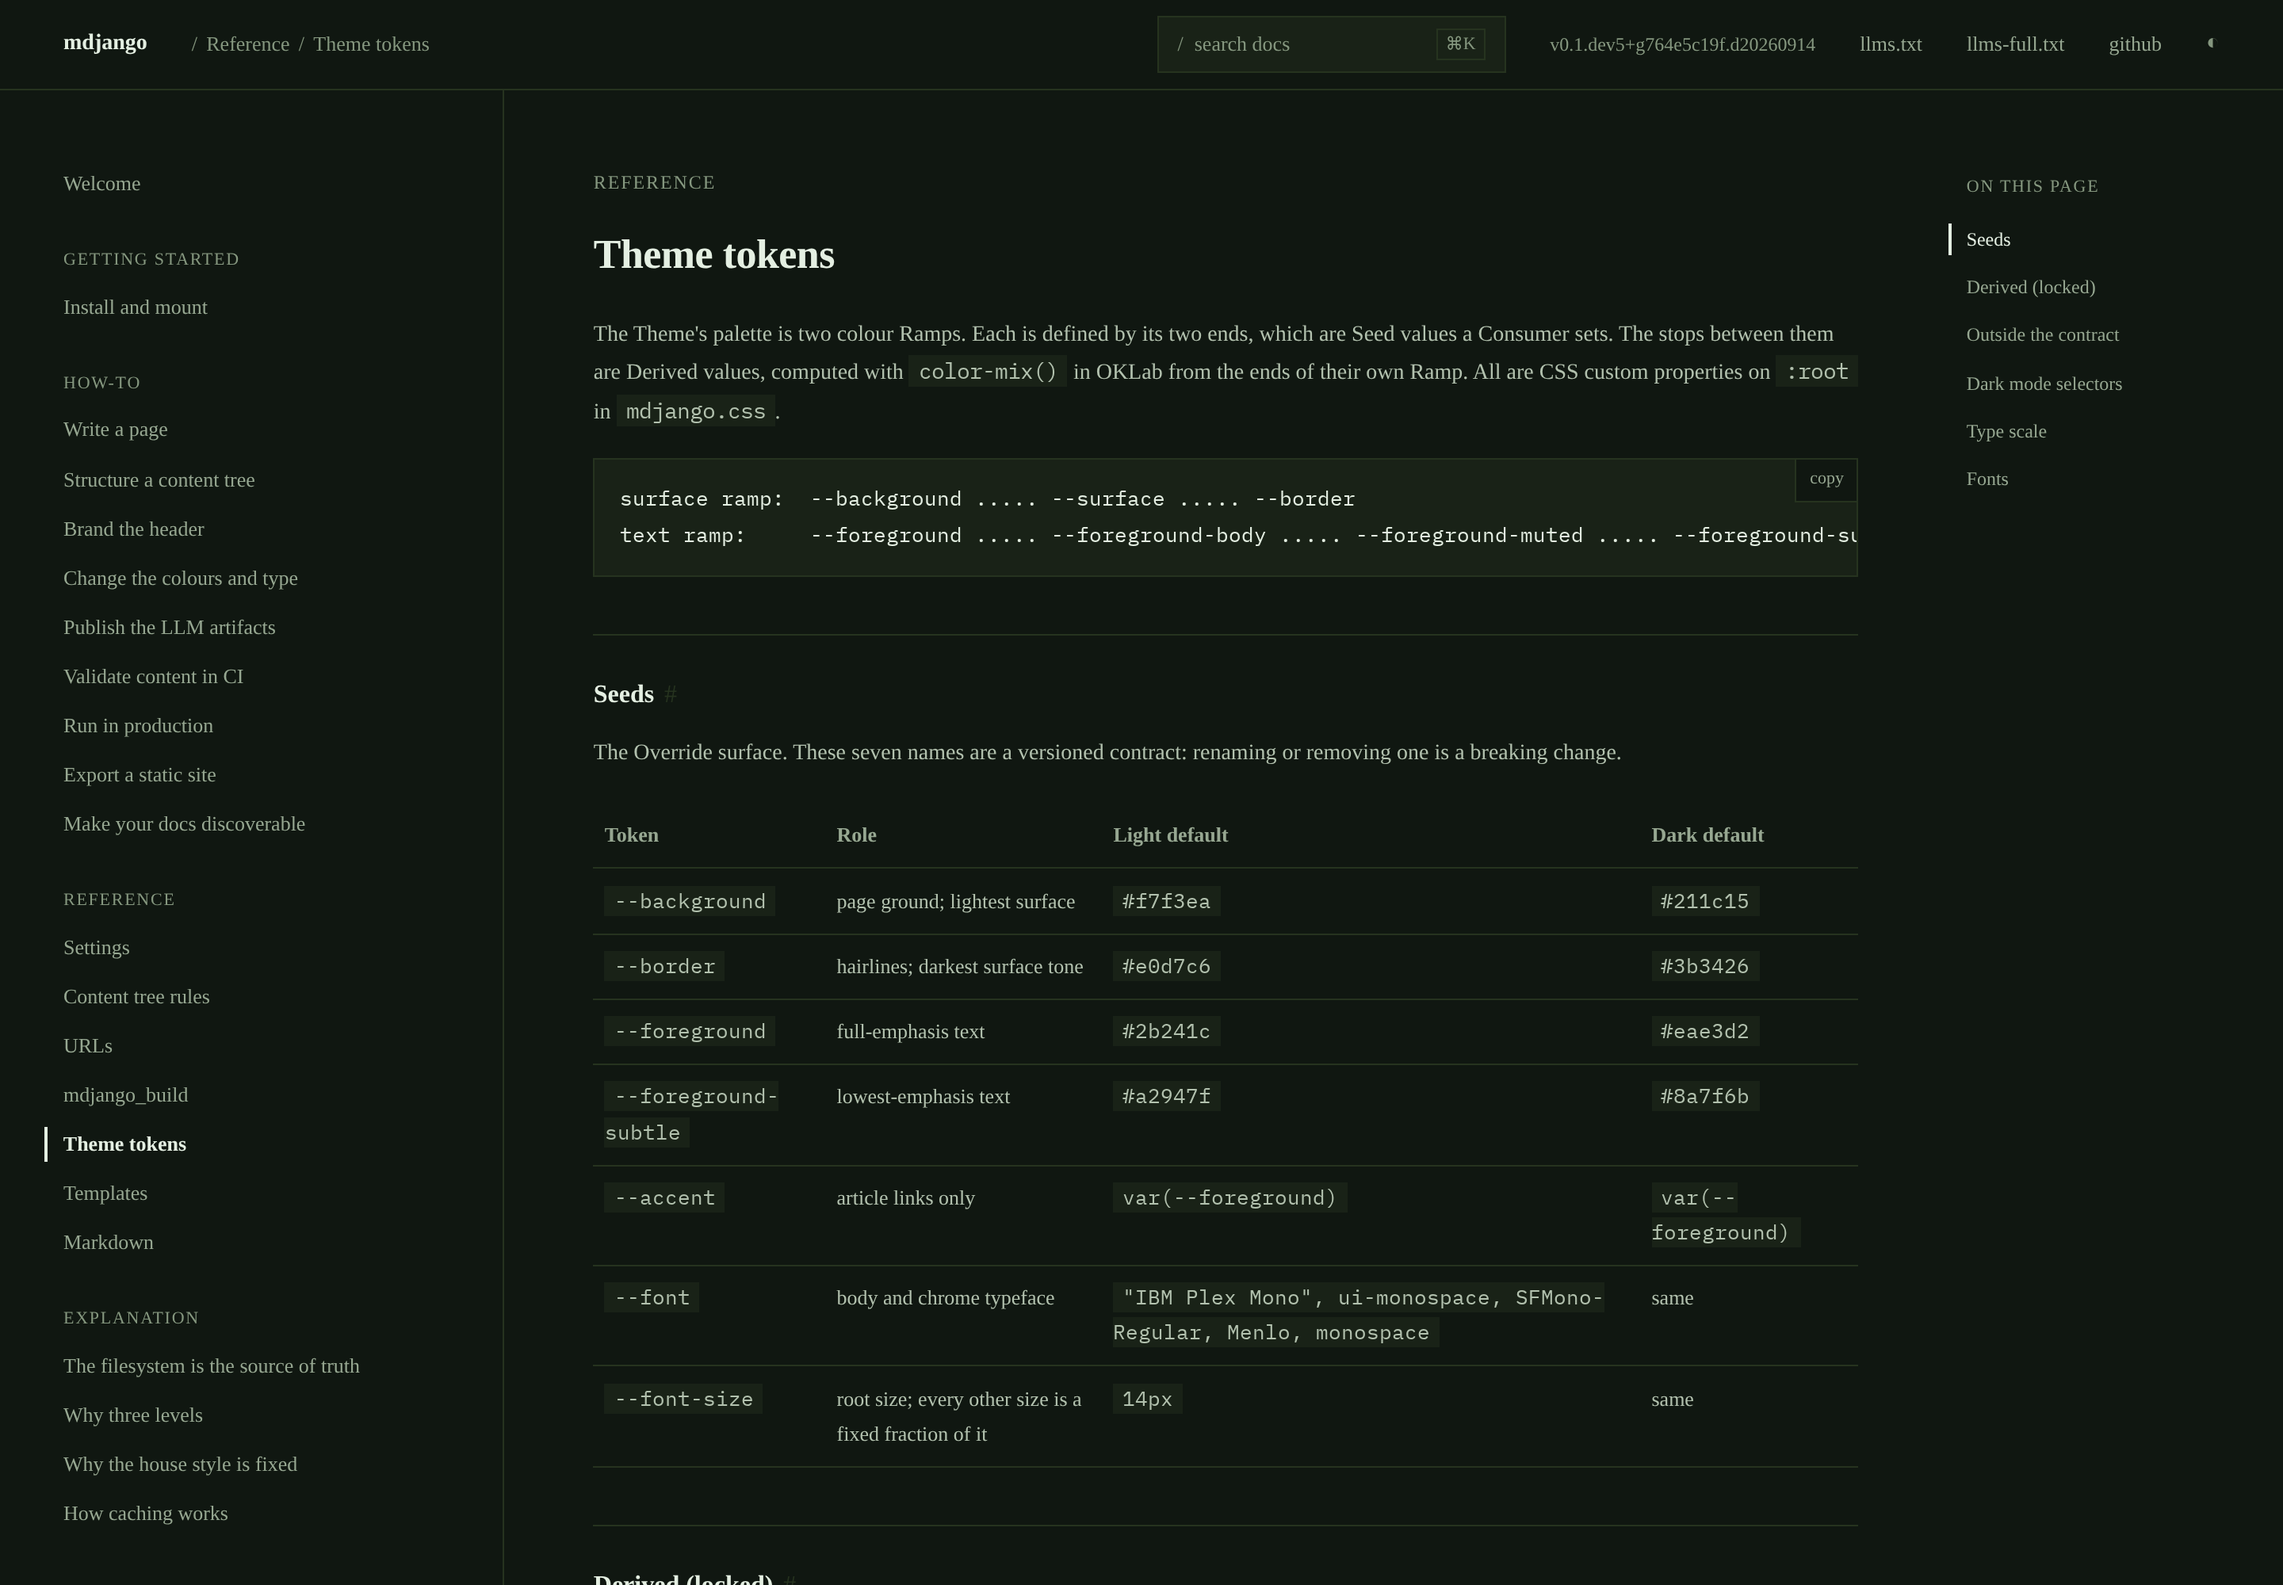
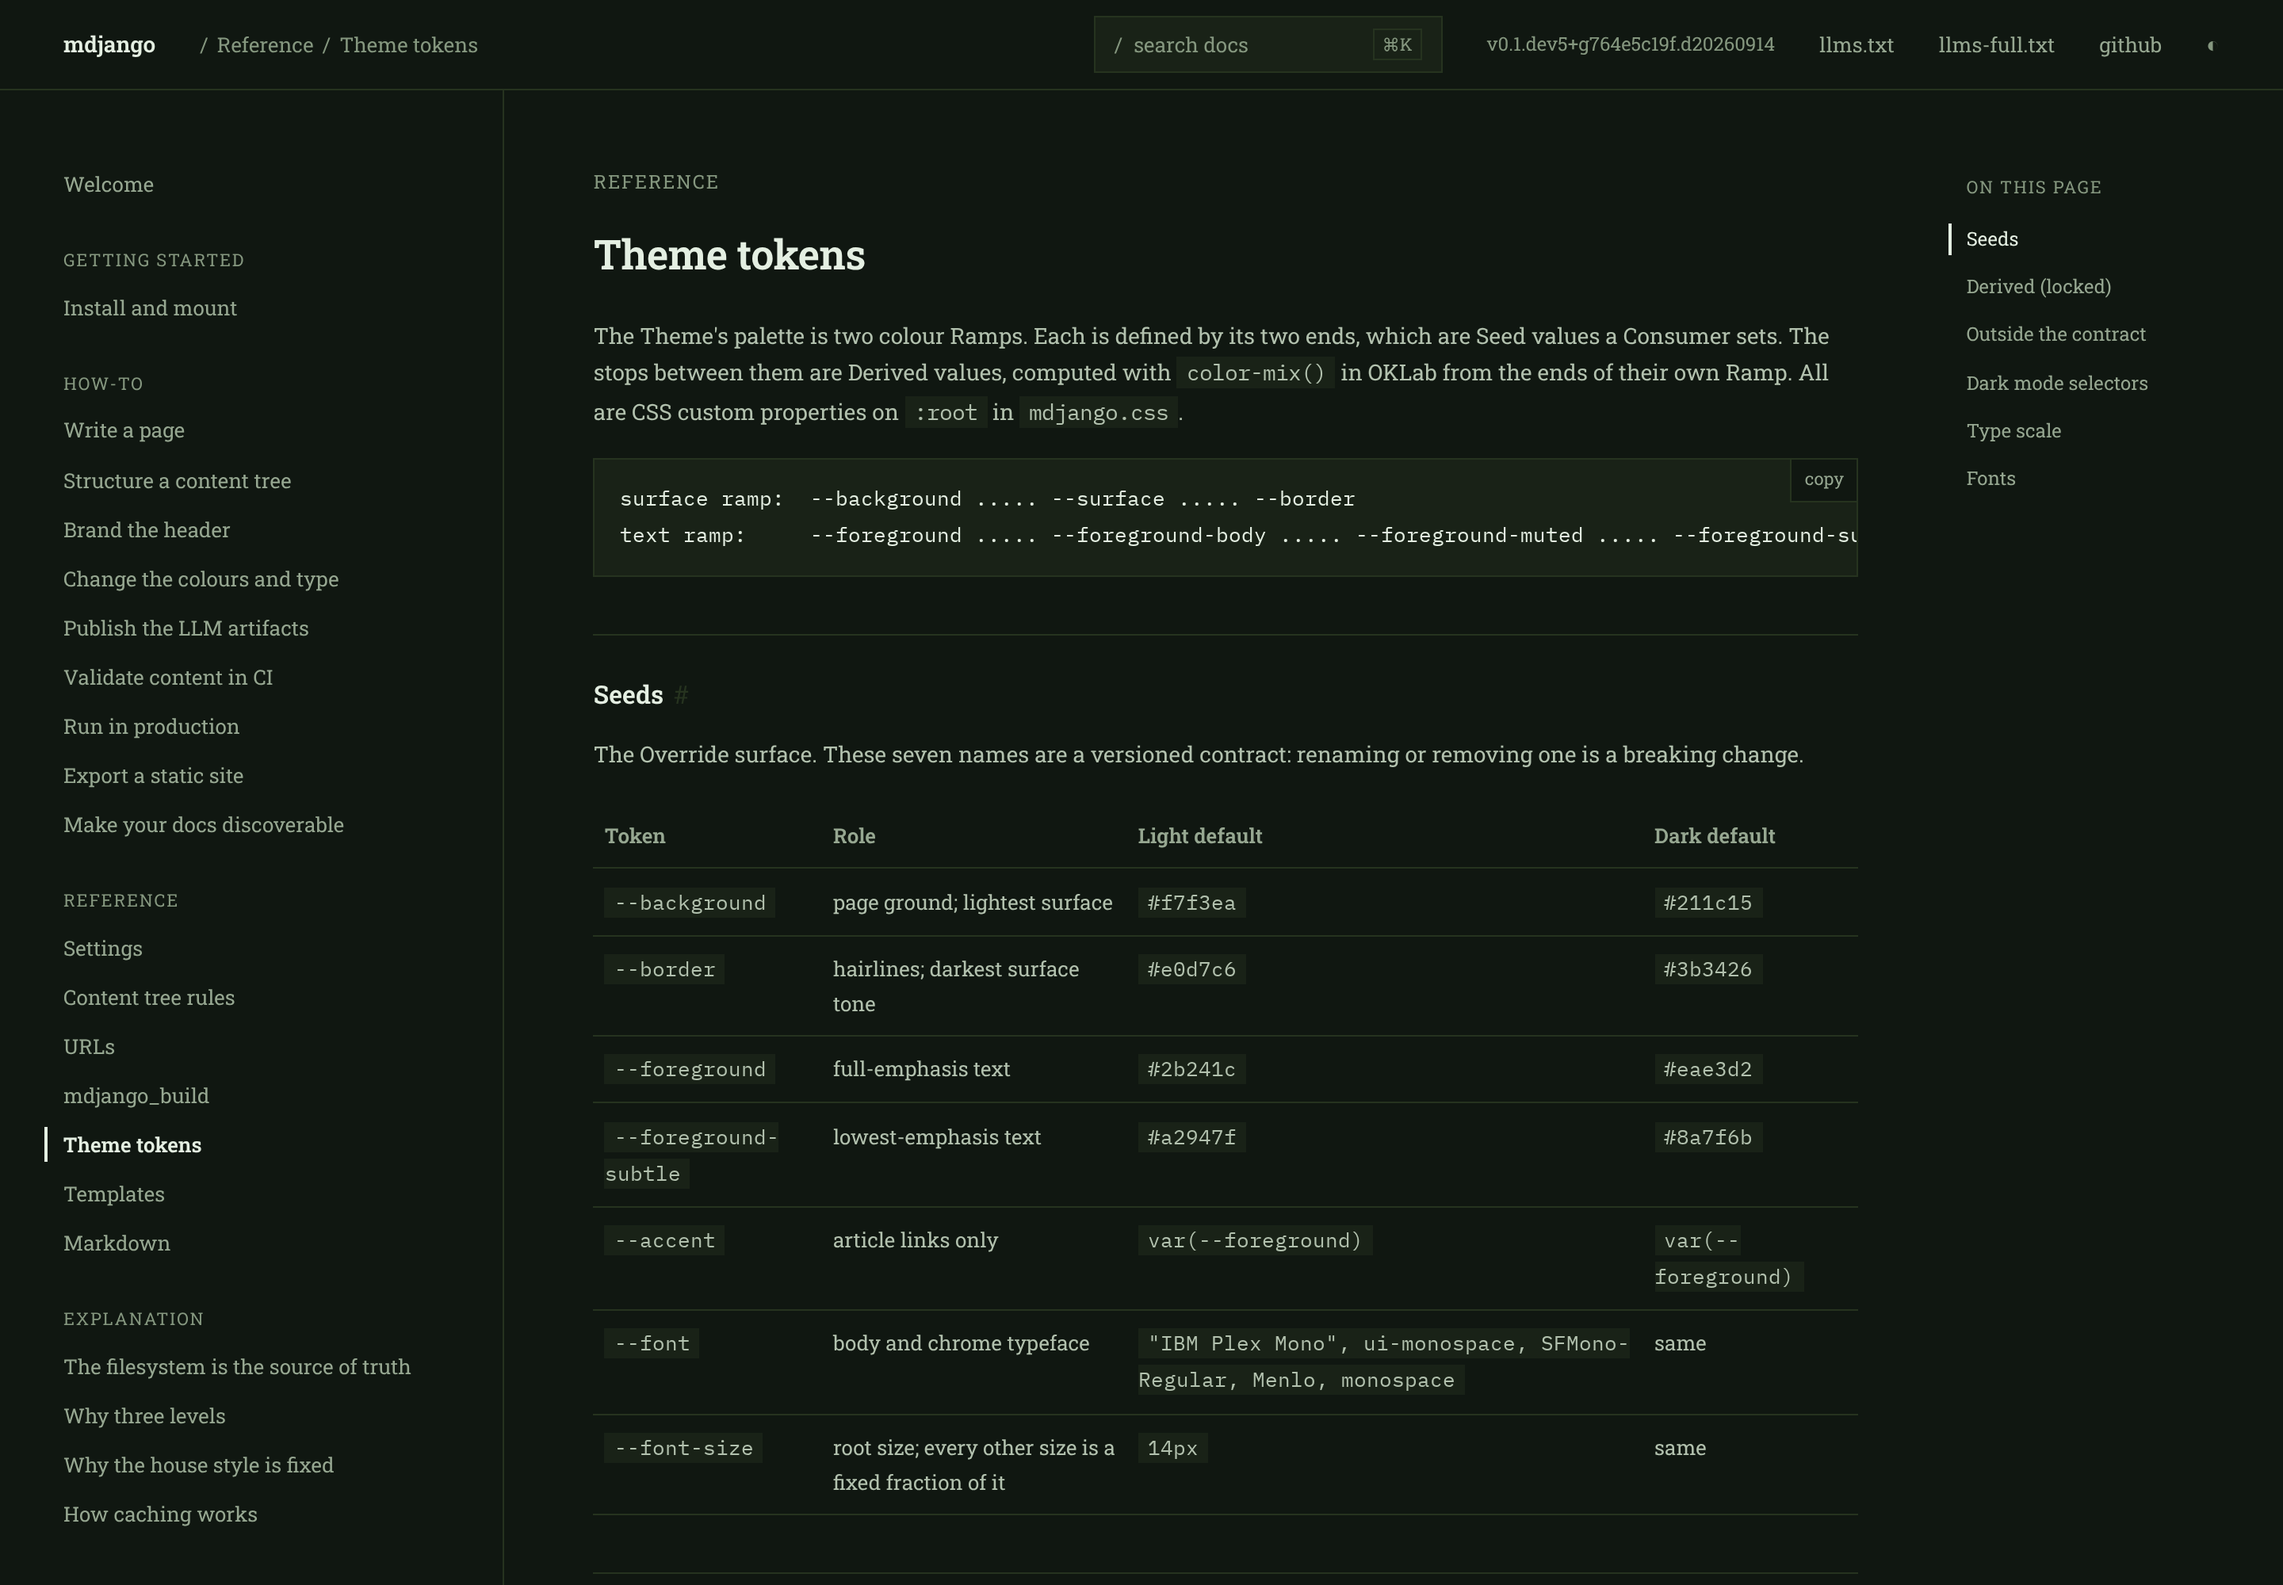
docs(theme-gallery): use real, recognisable fonts for all six themes
The system-fallback fonts from the previous pass (Noto/Liberation/Adwaita/
Cantarell) were technically distinct families but read as ~one sans + one
serif. Switch every theme to a real OFL typeface, installed on the render box:

  ocean=IBM Plex Sans, claret=Playfair Display, forest=Roboto Slab,
  apple=Inter, tesla=Montserrat, stripe=Space Grotesk

Body and heading faces verified with CSS.getPlatformFontsForNode. Montserrat
and Space Grotesk ship as variable fonts whose default instance is Thin/Light
and Chromium won't interpolate a locally-installed variable font's weight, so
static 400/700 were instanced with fonttools; the other four render 400 as-is.
--code-font is not a seed, so code stays IBM Plex Mono. README documents the
faces and how to install them to reproduce the shots.

Claude-Session: https://claude.ai/code/session_01353wkrHrBfKW4pNDhMzNXH

diff --git a/docs/theme-gallery/css/tesla.css b/docs/theme-gallery/css/tesla.css
@@ -1,12 +1,12 @@
-/* Tesla — crisp white/graphite, red accent, Helvetica-style sans (aesthetic homage) */
+/* Tesla — crisp white/graphite, red accent, Montserrat (Gotham-style geometric sans) */
 :root {
   --background: #ffffff;
   --border: #e3e3e3;
   --foreground: #171a20;
   --foreground-subtle: #5c5e62;
   --accent: #e82127;
-  /* Helvetica/Arial metrics; code stays mono via --code-font */
-  --font: "Helvetica Neue", Helvetica, Arial, sans-serif;
+  /* geometric sans; code stays mono via --code-font */
+  --font: "Montserrat", "Gotham", "Helvetica Neue", Arial, sans-serif;
 }
 :root[data-theme="dark"] {
   --background: #0f1114;

diff --git a/docs/theme-gallery/css/stripe.css b/docs/theme-gallery/css/stripe.css
@@ -1,12 +1,12 @@
-/* Stripe — cool blue-slate, deep-navy dark, indigo accent, UI sans (aesthetic homage) */
+/* Stripe — cool blue-slate, deep-navy dark, indigo accent, Space Grotesk (grotesque sans) */
 :root {
   --background: #f6f9fc;
   --border: #e3e8ee;
   --foreground: #0a2540;
   --foreground-subtle: #697386;
   --accent: #635bff;
-  /* system UI sans; code stays mono via --code-font */
-  --font: "Segoe UI", "Sohne", Cantarell, system-ui, sans-serif;
+  /* grotesque sans; code stays mono via --code-font */
+  --font: "Space Grotesk", "Sohne", system-ui, sans-serif;
   --font-size: 15px;
 }
 :root[data-theme="dark"] {

diff --git a/docs/theme-gallery/css/apple.css b/docs/theme-gallery/css/apple.css
@@ -1,4 +1,4 @@
-/* Apple — neutral greys, near-black text, blue accent, San-Francisco-style sans (aesthetic homage) */
+/* Apple — neutral greys, near-black text, blue accent, Inter (San-Francisco-style sans) */
 :root {
   --background: #fbfbfd;
   --border: #d2d2d7;
@@ -6,7 +6,7 @@
   --foreground-subtle: #86868b;
   --accent: #0071e3;
   /* code stays mono via --code-font (not a seed); only body/chrome change */
-  --font: -apple-system, "SF Pro Text", "Adwaita Sans", system-ui, sans-serif;
+  --font: "Inter", -apple-system, "SF Pro Text", system-ui, sans-serif;
   --font-size: 15px;
 }
 :root[data-theme="dark"] {

diff --git a/docs/theme-gallery/css/forest.css b/docs/theme-gallery/css/forest.css
@@ -1,12 +1,12 @@
-/* Forest — cool green, green accent */
+/* Forest — cool green, green accent, Roboto Slab (slab serif) */
 :root {
   --background: #f4f8f2;
   --border: #d6e4d0;
   --foreground: #182119;
   --foreground-subtle: #6d8070;
   --accent: #2f8f4e;
-  /* old-style (Times-like) serif; code stays mono via --code-font */
-  --font: "Liberation Serif", "Times New Roman", serif;
+  /* slab serif; code stays mono via --code-font */
+  --font: "Roboto Slab", Rockwell, serif;
 }
 :root[data-theme="dark"] {
   --background: #101711;

diff --git a/docs/theme-gallery/css/ocean.css b/docs/theme-gallery/css/ocean.css
@@ -1,4 +1,4 @@
-/* Ocean — cool blue, blue accent */
+/* Ocean — cool blue, blue accent, IBM Plex Sans (pairs with the house Plex Mono) */
 :root {
   --background: #f4f7fb;
   --border: #d6e0ec;
@@ -6,7 +6,7 @@
   --foreground-subtle: #6b7d93;
   --accent: #2563eb;
   /* humanist sans; code stays mono via --code-font */
-  --font: "Noto Sans", system-ui, sans-serif;
+  --font: "IBM Plex Sans", system-ui, sans-serif;
 }
 :root[data-theme="dark"] {
   --background: #0e1620;

diff --git a/docs/theme-gallery/css/claret.css b/docs/theme-gallery/css/claret.css
@@ -1,4 +1,4 @@
-/* Claret — warm rose, crimson accent */
+/* Claret — warm rose, crimson accent, Playfair Display (high-contrast didone serif) */
 :root {
   --background: #fdf6f5;
   --border: #f0d9d6;
@@ -6,7 +6,7 @@
   --foreground-subtle: #9a7b7d;
   --accent: #c02b4e;
   /* editorial serif; code stays mono via --code-font */
-  --font: "Noto Serif", Georgia, serif;
+  --font: "Playfair Display", Georgia, serif;
 }
 :root[data-theme="dark"] {
   --background: #1e1416;

diff --git a/docs/theme-gallery/README.md b/docs/theme-gallery/README.md
@@ -15,24 +15,39 @@ visual regression eye-check for the seed contract. **Dev-only:** this tree is ou
 - `screenshots/` — each theme light + dark on the `reference/theme-tokens` page (retina, 2×), plus
   two contact sheets (`palettes-contact-sheet.png`, `brands-contact-sheet.png`).
 
-The `--font`s are **system stacks**, not vendored web fonts — mdjango ships only IBM Plex Mono and
-forbids CDN fetches (ADR 0003), so a named web font would silently fall back. The committed
-screenshots were rendered on Linux, which has none of the real brand faces, so each stack names an
-installed family as a fallback to stay visibly distinct here rather than collapsing to one default.
-The **rendered** face below was verified with `CSS.getPlatformFontsForNode` — all six differ:
+Each `--font` names a real, recognisable OFL (open-source) typeface. The **rendered** face — body
+*and* heading — was verified with `CSS.getPlatformFontsForNode`, so these are what the screenshots
+actually show, not what the CSS merely asks for:
 
-| Theme | Accent | Intended face | Rendered here (Linux) | Genre |
-|---|---|---|---|---|
-| `ocean` | blue | (system sans) | Noto Sans | humanist sans |
-| `claret` | crimson | (system serif) | Noto Serif | serif |
-| `forest` | green | (system serif) | Liberation Serif | old-style serif (Times) |
-| `apple` | blue | SF Pro Text | Adwaita Sans | Inter-like sans |
-| `tesla` | red | Helvetica Neue | Liberation Sans | Helvetica sans |
-| `stripe` | indigo | Segoe UI / Sohne | Cantarell | geometric sans |
+| Theme | Accent | Font (`--font`) | Genre |
+|---|---|---|---|
+| `ocean` | blue | IBM Plex Sans | humanist sans (pairs with the house Plex Mono) |
+| `claret` | crimson | Playfair Display | high-contrast didone serif |
+| `forest` | green | Roboto Slab | slab serif |
+| `apple` | blue | Inter | neutral geometric-humanist sans (SF-like) |
+| `tesla` | red | Montserrat | geometric sans (Gotham-like) |
+| `stripe` | indigo | Space Grotesk | grotesque sans |
 
-A viewer who has the intended face sees that instead; the fallbacks only make the *demo* legible.
-With only these families installed the split is 4 sans + 2 serif, so `claret` and `forest` share the
-serif genre (different families — a modern serif vs Times); every other pair differs in genre too.
+`--code-font` is not a seed, so code blocks stay IBM Plex Mono in every theme.
+
+### Reproducing the screenshots
+
+These faces are **not vendored** — mdjango ships only IBM Plex Mono and forbids CDN fetches
+(ADR 0003), and this gallery is a demo, not shipped. To reproduce the screenshots you need the six
+families installed on the render machine; without them each `--font` falls back to a generic
+`sans-serif`/`serif`. They were installed here from the OFL sources in
+[`google/fonts`](https://github.com/google/fonts):
+
+```bash
+# variable TTFs into a user font dir, then refresh the cache
+mkdir -p ~/.local/share/fonts/gallery && cd ~/.local/share/fonts/gallery
+# Inter, IBM Plex Sans, Playfair Display, Roboto Slab: variable defaults render at 400 as-is.
+# Montserrat and Space Grotesk default to a Thin/Light instance and Chromium does not interpolate
+# a locally-installed variable font's weight, so their static 400/700 were instanced instead:
+#   python -m fontTools.varLib.instancer 'Montserrat[wght].ttf' wght=400 -o Montserrat-Regular.ttf --update-name-table
+#   python -m fontTools.varLib.instancer 'Montserrat[wght].ttf' wght=700 -o Montserrat-Bold.ttf    --update-name-table
+fc-cache -f ~/.local/share/fonts
+```
 
 ## How they were generated
 
